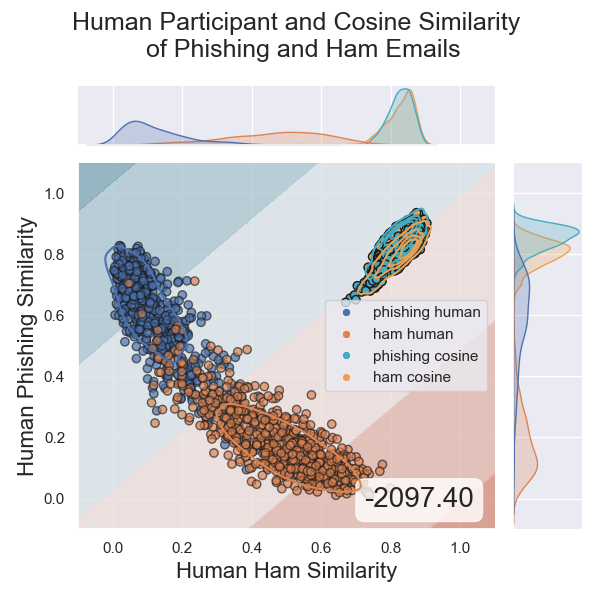
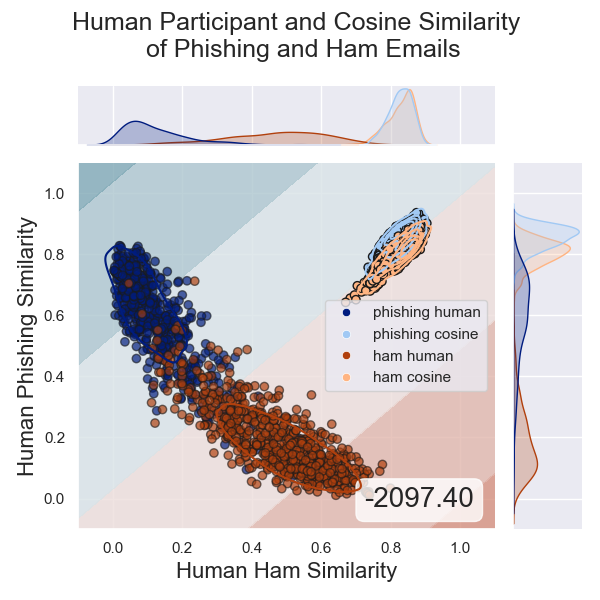
adding new color scheme to figures

diff --git a/temp.py b/temp.py
@@ -76,8 +76,6 @@ if __name__ == '__main__':
                     help='Path to save the png output file to.')
     parser.add_argument('-ll', '--legendLoc', dest='legendLoc', type=str,  default="upper-right",
                     help='Location to plot the legend. Options are upper-right, lower-right, center-right, and so on.') 
-    parser.add_argument('-p', '--participant', dest='participant', type=str,  default='all',
-                    help='Participants to show, options are "all" which shows all, "random" which picks 1 random, or a string representing a list of participant IDs to show (e.g [1] or [2,47], etc).')
 
     # Classification arguments
     parser.add_argument('-c', '--classify', dest='classify', type=str,  default="human",
@@ -87,9 +85,6 @@ if __name__ == '__main__':
 
     df = pd.read_pickle(args.dataPath)
     args.legendLoc = " ".join(args.legendLoc.split("-"))
-    if(args.participant != 'all'):
-        if(args.participant == 'random'):
-            id = np.random(0,len(df['UserId'].unique()))
 
     # list of (estimator, param_grid), where param_grid is used in GridSearchCV
     # The parameter spaces in this example are limited to a narrow band to reduce
@@ -134,125 +129,103 @@ if __name__ == '__main__':
         classifier_similarities = np.array(classifier_similarities).T
         classifiers_similarities.append(classifier_similarities)
     
-    # Dark Blue, Dark Orange, Dark Red, Dark Purple, Dark Brown, Dark Pink, Dark Grey, Dark Yellow
-    # Light Blue, Light Orange, Light Red, Light Purple, Light Brown, Light Pink, Light Grey, Light Yellow
-    colors = sns.color_palette("dark")[0:len(classifiers)+1]
-    light_colors = sns.color_palette("pastel")[0:len(classifiers)+1]
-    
+    # Currently can only plot if there are 2 document annotation categories
+    if(len(categories) == 2):
+        for (classifier, classifier_df, classifier_similarity) in zip(classifiers, classifiers_dfs, classifiers_similarities):
+            #palette = [(0.267, 0.675, 0.761), (0.929, 0.627, 0.322), (0.2980392156862745, 0.4470588235294118, 0.6901960784313725), (0.8666666666666667, 0.5176470588235295, 0.3215686274509804)]
+            palette = [(0.267, 0.675, 0.761), (0.929, 0.627, 0.322), (0.2980392156862745, 0.4470588235294118, 0.6901960784313725), (0.8666666666666667, 0.5176470588235295, 0.3215686274509804), ]
+            g = sns.jointplot(data=df, x=categories[0], y=categories[1], palette=palette, hue="Type", xlim = (-0.1,1.1), ylim = (-0.1,1.1)).plot_joint(sns.kdeplot, zorder=5, n_levels=5)
+                #sns.move_legend(g.figure, "lower left")
+            
+            n_samples = 100
 
-    if(len(list(df['Similarity Metric'].unique())) == 1):
-        hue_order = ['phishing human', 'ham human']
-        palette = sns.color_palette(colors)
-
-        cm_bright = ListedColormap([palette[1], palette[0]]) 
-        cm_brighter = ListedColormap([palette[1], palette[0]]) 
-    else:
-        hue_order = ['phishing human', 'phishing ' + classifier, 'ham human', 'ham ' + classifier]
-        palette = []
-        for x in range(len(classifiers)+1):
-            palette.append(colors[x])
-            palette.append(light_colors[x])
-        
-        palette = sns.color_palette(palette)
-
-        cm_bright = ListedColormap([palette[2], palette[0]]) 
-        cm_brighter = ListedColormap([palette[3], palette[1]])
-
-    for (classifier, classifier_df, classifier_similarity) in zip(classifiers, classifiers_dfs, classifiers_similarities):
-        g = sns.jointplot(data=df, x=categories[0], y=categories[1], hue_order=hue_order, palette=palette, hue="Type", xlim = (-0.1,1.1), ylim = (-0.1,1.1)).plot_joint(sns.kdeplot, zorder=5, n_levels=5, hue_order=hue_order)
-            #sns.move_legend(g.figure, "lower left")
-        n_samples = 100
-
-        if(len(list(df['Similarity Metric'].unique())) > 1):
-            g.figure.suptitle("Human Participant and " + classifier.capitalize() + " Similarity \n of Phishing and Ham Emails", fontsize=18)
-        else:
             g.figure.suptitle("Human Participant Similarity \n of Phishing and Ham Emails", fontsize=18)
+            g.ax_joint.collections[0].set_alpha(0.9)
+            g.figure.tight_layout()
+            g.figure.subplots_adjust(top=0.95) # Reduce plot to make room
 
-        g.ax_joint.collections[0].set_alpha(0.9)
-        g.figure.tight_layout()
-        g.figure.subplots_adjust(top=0.95) # Reduce plot to make room
+            g.ax_joint.set_xlabel("Human Ham Similarity", fontsize=16)
+            g.ax_joint.set_ylabel("Human Phishing Similarity", fontsize=16)
 
-        g.ax_joint.set_xlabel("Human Ham Similarity", fontsize=16)
-        g.ax_joint.set_ylabel("Human Phishing Similarity", fontsize=16)
+            X = classify_similarities
+            y = classify_df["Type"].to_numpy() == 'phishing human'
+            if(len(classifiers) == 0): # Use a train/test split of classify data for graph
+                X_train, X_test, y_train, y_test = train_test_split(
+                    X, y, test_size=0.5, random_state=42
+                )
+            else: # Use the classifier similarity metric as the train data, and classify similarities as the test
+                X_test = X
+                y_test = y
+                X_train = classifier_similarity
+                y_train = classifier_df["Type"].to_numpy() == 'phishing ' + classifier
+            
+            cm_piyg = sns.diverging_palette(20,220, as_cmap=True)
+            cm_bright = ListedColormap([(0.8666666666666667, 0.5176470588235295, 0.3215686274509804), (0.2980392156862745, 0.4470588235294118, 0.6901960784313725)])
+            cm_brighter = ListedColormap([(0.929, 0.627, 0.322), (0.267, 0.675, 0.761)])
 
-        X = classify_similarities
-        y = classify_df["Type"].to_numpy() == 'phishing human'
-        if(len(classifiers) == 0): # Use a train/test split of classify data for graph
-            X_train, X_test, y_train, y_test = train_test_split(
-                X, y, test_size=0.5, random_state=42
-            )
-        else: # Use the classifier similarity metric as the train data, and classify similarities as the test
-            X_test = X
-            y_test = y
-            X_train = classifier_similarity
-            y_train = classifier_df["Type"].to_numpy() == 'phishing ' + classifier
+            # create the grid for background colors
+            x_min, x_max = X[:, 0].min() - 0.5, X[:, 0].max() + 0.5
+            y_min, y_max = X[:, 1].min() - 0.5, X[:, 1].max() + 0.5
+            xx, yy = np.meshgrid(np.arange(x_min, x_max, 0.1), np.arange(y_min, y_max, 0.1))
         
-        cm_piyg = sns.diverging_palette(20,220, as_cmap=True) 
+            # plot the dataset first
+            ax = g.ax_joint
+            # plot the training points
+            ax.scatter(X_train[:, 0], X_train[:, 1], c=y_train, cmap=cm_brighter, edgecolors="k")
+            # and testing points
+            ax.scatter(
+                X_test[:, 0], X_test[:, 1], c=y_test, cmap=cm_bright, alpha=0.6, edgecolors="k"
+            )
+            ax.set_xlim(-0.1,1.1)
+            ax.set_ylim(-0.1,1.1)
+            #ax.set_xticks(())
+            #ax.set_yticks(())
 
-        # create the grid for background colors
-        x_min, x_max = X[:, 0].min() - 0.5, X[:, 0].max() + 0.5
-        y_min, y_max = X[:, 1].min() - 0.5, X[:, 1].max() + 0.5
-        xx, yy = np.meshgrid(np.arange(x_min, x_max, 0.1), np.arange(y_min, y_max, 0.1))
-    
-        # plot the dataset first
-        ax = g.ax_joint
-        # plot the training points
-        ax.scatter(X_train[:, 0], X_train[:, 1], c=y_train, cmap=cm_brighter, alpha=0.5)
-        # and testing points
-        ax.scatter(
-            X_test[:, 0], X_test[:, 1], c=y_test, cmap=cm_bright, alpha=0.5
-        )
-        ax.set_xlim(-0.1,1.1)
-        ax.set_ylim(-0.1,1.1)
-        #ax.set_xticks(())
-        #ax.set_yticks(())
+            # compute KL divergence of category KDEs
+            from sklearn.neighbors import KernelDensity
+            kde = KernelDensity(kernel='gaussian', bandwidth=0.5).fit(X_train[y_train])
+            score = kde.score(X_test[y_test])
 
-        # compute KL divergence of category KDEs
-        from sklearn.neighbors import KernelDensity
-        kde = KernelDensity(kernel='gaussian', bandwidth=0.5).fit(X_train[y_train])
-        score = kde.score(X_test[y_test])
+            kde = KernelDensity(kernel='gaussian', bandwidth=0.5).fit(X_train[y_train == 0])
+            score += kde.score(X_test[y_test == 0])
 
-        kde = KernelDensity(kernel='gaussian', bandwidth=0.5).fit(X_train[y_train == 0])
-        score += kde.score(X_test[y_test == 0])
+            ax = g.ax_joint
+            estimator = regressions[0][0] 
+            param_grid = regressions[0][1] 
+            clf = GridSearchCV(estimator=estimator, param_grid=param_grid)
+            with ignore_warnings(category=ConvergenceWarning):
+                clf.fit(X_train, y_train)
+            score1 = clf.score(X_test, y_test)
 
-        ax = g.ax_joint
-        estimator = regressions[0][0] 
-        param_grid = regressions[0][1] 
-        clf = GridSearchCV(estimator=estimator, param_grid=param_grid)
-        with ignore_warnings(category=ConvergenceWarning):
-            clf.fit(X_train, y_train)
-        score1 = clf.score(X_test, y_test)
+            # plot the decision boundary. For that, we will assign a color to each
+            # point in the mesh [x_min, x_max]*[y_min, y_max].
+            if hasattr(clf, "decision_function"):
+                Z = clf.decision_function(np.column_stack([xx.ravel(), yy.ravel()]))
+            else:
+                Z = clf.predict_proba(np.column_stack([xx.ravel(), yy.ravel()]))[:, 1]
 
-        # plot the decision boundary. For that, we will assign a color to each
-        # point in the mesh [x_min, x_max]*[y_min, y_max].
-        if hasattr(clf, "decision_function"):
-            Z = clf.decision_function(np.column_stack([xx.ravel(), yy.ravel()]))
-        else:
-            Z = clf.predict_proba(np.column_stack([xx.ravel(), yy.ravel()]))[:, 1]
+            # put the result into a color plot
+            Z = Z.reshape(xx.shape)
+            ax.contourf(xx, yy, Z, cmap=cm_piyg, alpha=0.8)
 
-        # put the result into a color plot
-        Z = Z.reshape(xx.shape)
-        ax.contourf(xx, yy, Z, cmap=cm_piyg, alpha=0.8)
+            # plot the training points
+            ax.scatter(
+                X_train[:, 0], X_train[:, 1], c=y_train, cmap=cm_brighter, edgecolors="k"
+            )
+            # and testing points
+            ax.scatter(
+                X_test[:, 0],
+                X_test[:, 1],
+                c=y_test,
+                cmap=cm_bright,
+                edgecolors="k",
+                alpha=0.6,
+            )
+            ax.set_xlim(-0.1,1.1)
+            ax.set_ylim(-0.1,1.1)
+            #ax.set_xticks(())
+            #ax.set_yticks(())
 
-        # plot the training points
-        ax.scatter(
-            X_train[:, 0], X_train[:, 1], c=y_train, cmap=cm_brighter, edgecolors="k"
-        )
-        # and testing points
-        ax.scatter(
-            X_test[:, 0],
-            X_test[:, 1],
-            c=y_test,
-            cmap=cm_bright,
-            edgecolors="k",
-            alpha=0.6,
-        )
-        ax.set_xlim(-0.1,1.1)
-        ax.set_ylim(-0.1,1.1)
-        #ax.set_xticks(())
-        #ax.set_yticks(())
-
-        if(len(list(df['Similarity Metric'].unique())) != 1):
             ax.text(
                 0.95,
                 0.06,
@@ -264,12 +237,12 @@ if __name__ == '__main__':
             )
 
 
-        plt.tight_layout()
-        #plt.legend(loc='lower left')
-        plt.legend(loc=args.legendLoc)
+            plt.tight_layout()
+            #plt.legend(loc='lower left')
+            plt.legend(loc=args.legendLoc)
 
-        if(args.show):
-            plt.show()
+            if(args.show):
+                plt.show()
 
-        fig = g.figure
-        fig.savefig(args.outPath) 
+            fig = g.figure
+            fig.savefig(args.outPath) 

diff --git a/generateSims.py b/generateSims.py
@@ -190,6 +190,10 @@ if __name__ == '__main__':
     if(len(metrics) == 0):                                              # There must be at least one similarity in the list. 
         raise Exception("No similarity metrics found, the default options are [human,cosine,weighted,pruned,semantic,ibis,custom], note that these are case sensative. If you are adding a custom similarity metric ensure that it is properly added to the __init__.py file import.")
 
+    if(args.individual):
+        # adf.sample(n=1, random_state=123)['UserId'].item()
+        adf = adf[adf['UserId'] == adf['UserId'].unique()[20]]
+        ddf = ddf[ddf['EmailId'].isin(adf['EmailId'].unique())]
 
     for metric in metrics:                                              # Iterrate through all similarity metrics selected 
         metric.set_documents(ddf)
